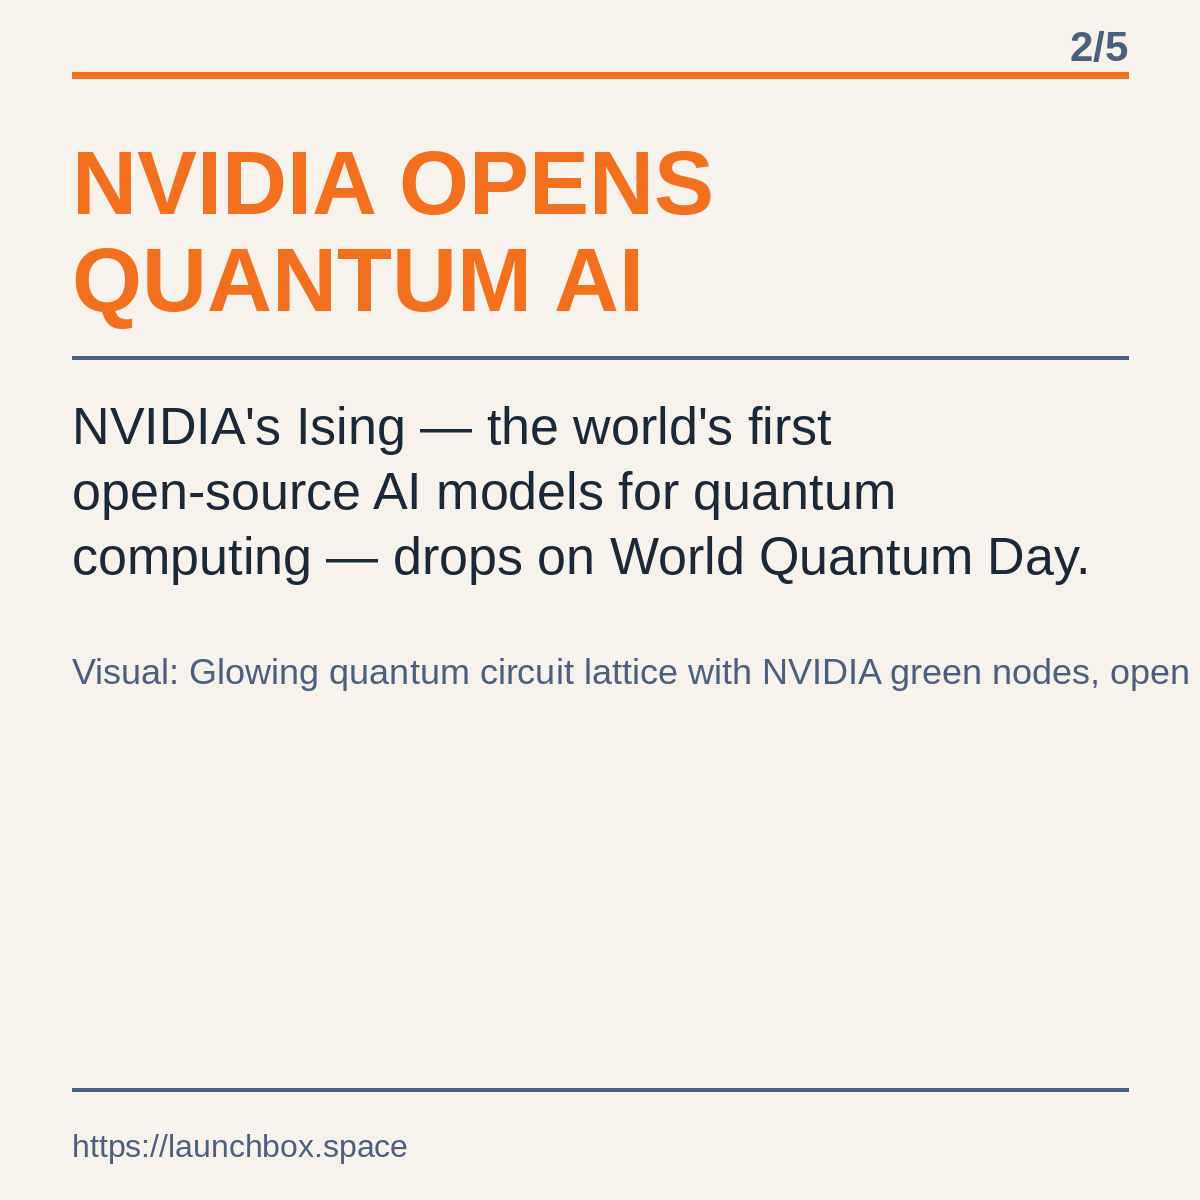
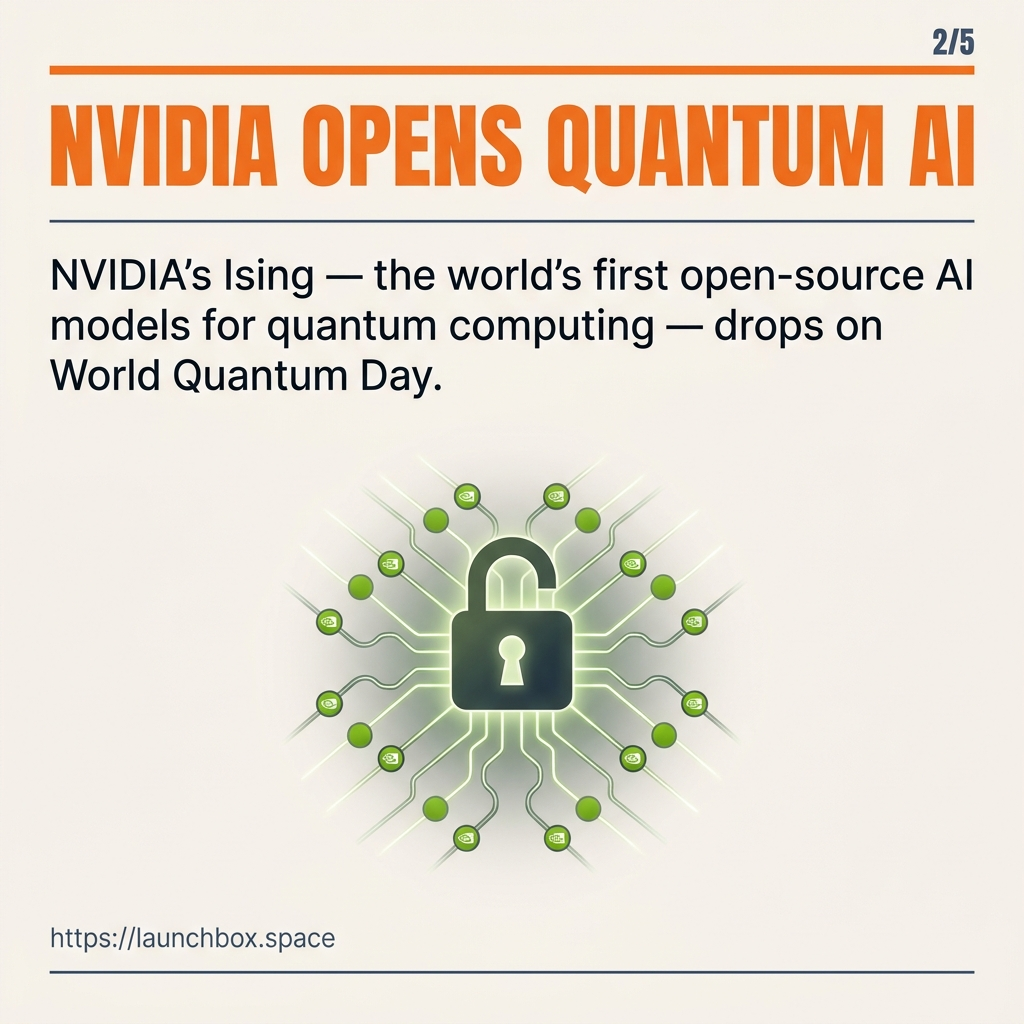
feat: regenerate Apr 15 slides via Gemini, document X API tier issue
- Confirmed X bearer token is valid; all 17 accounts return 403 (plan
  tier restriction — search/recent needs Basic $100/month or above)
- Regenerated all 6 slides using gemini-3.1-flash-image-preview with
  real AI image generation (429–527KB each vs previous 50–82KB stubs)
- Updated sources.md with accurate 403 explanation and slide gen note
- Updated candidates.json with API fetch attempt results

https://claude.ai/code/session_01SiaYZ7qNnkGxUrwrUJ4sHJ

Changed region(s): [[0.0312, 0.0, 0.9688, 0.8438], [0.0312, 0.9062, 0.9375, 0.9688], [0.9375, 0.5312, 1.0, 0.5938]]

diff --git a/daily-carousel/2026-04-15/sources.md b/daily-carousel/2026-04-15/sources.md
@@ -1,9 +1,14 @@
 # Sources — April 15, 2026
 
 ## Fetch method
-X API unavailable (no bearer token configured) — web search fallback used.
-Accounts walked via WebSearch: @sama, @AiBreakfast, @mreflow, @minchoi, @OfficialLoganK
-Accounts skipped (browser fallback limit): @heyrobinai, @techhalla, @dr_cintas, @rubenhassid, @heynavtoor, @r0ck3t23, @PhilKiel, @HenryCrochemore, @RoundtableSpace, @akshay_pachaar, @AmericanutopiaX, @AdityaJiRathore
+X API bearer token present and authenticated. All 17 accounts returned **HTTP 403** — plan tier restriction. The `search/recent` endpoint (with `from:` operator) requires X API Basic tier ($100/month) or above. The bearer token is valid; upgrade the app subscription at developer.twitter.com to unlock.
+
+Web search fallback used for ranking.
+Accounts covered via WebSearch: @sama, @AiBreakfast, @mreflow, @minchoi, @OfficialLoganK
+Accounts not covered (fallback limit): @heyrobinai, @techhalla, @dr_cintas, @rubenhassid, @heynavtoor, @r0ck3t23, @PhilKiel, @HenryCrochemore, @RoundtableSpace, @akshay_pachaar, @AmericanutopiaX, @AdityaJiRathore
+
+## Slide generation
+Gemini (`gemini-3.1-flash-image-preview`) — all 6 slides regenerated with real AI image generation on 2026-04-15.
 
 ## Dedup check
 No prior carousel data found — dedup skipped (first run).
